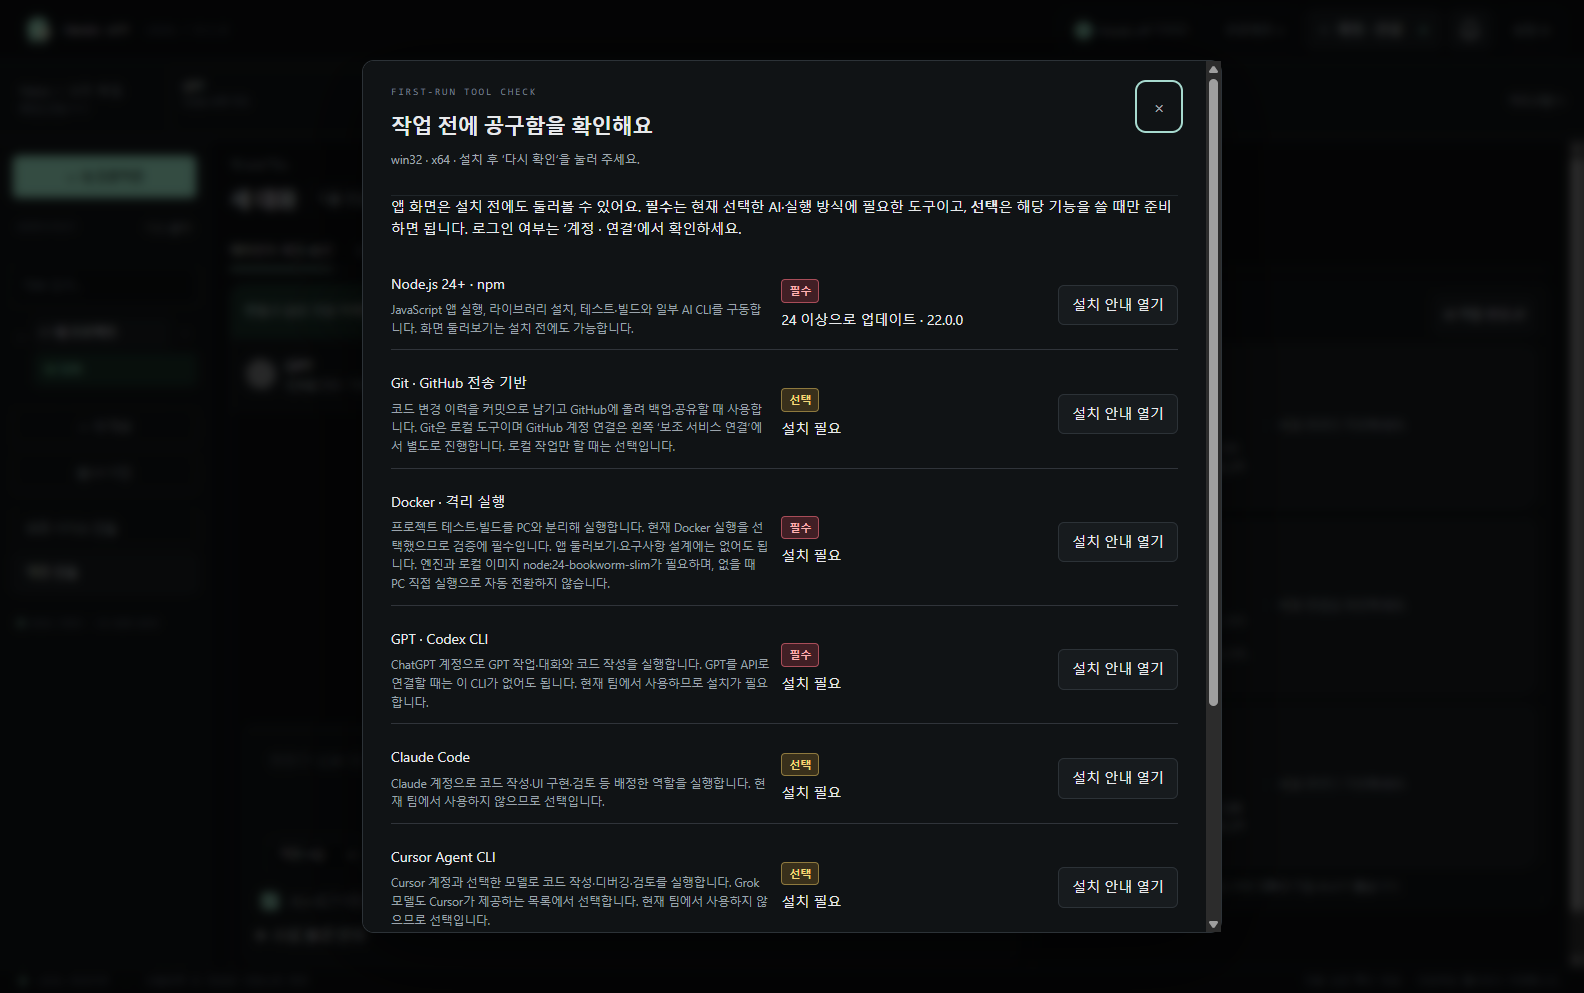
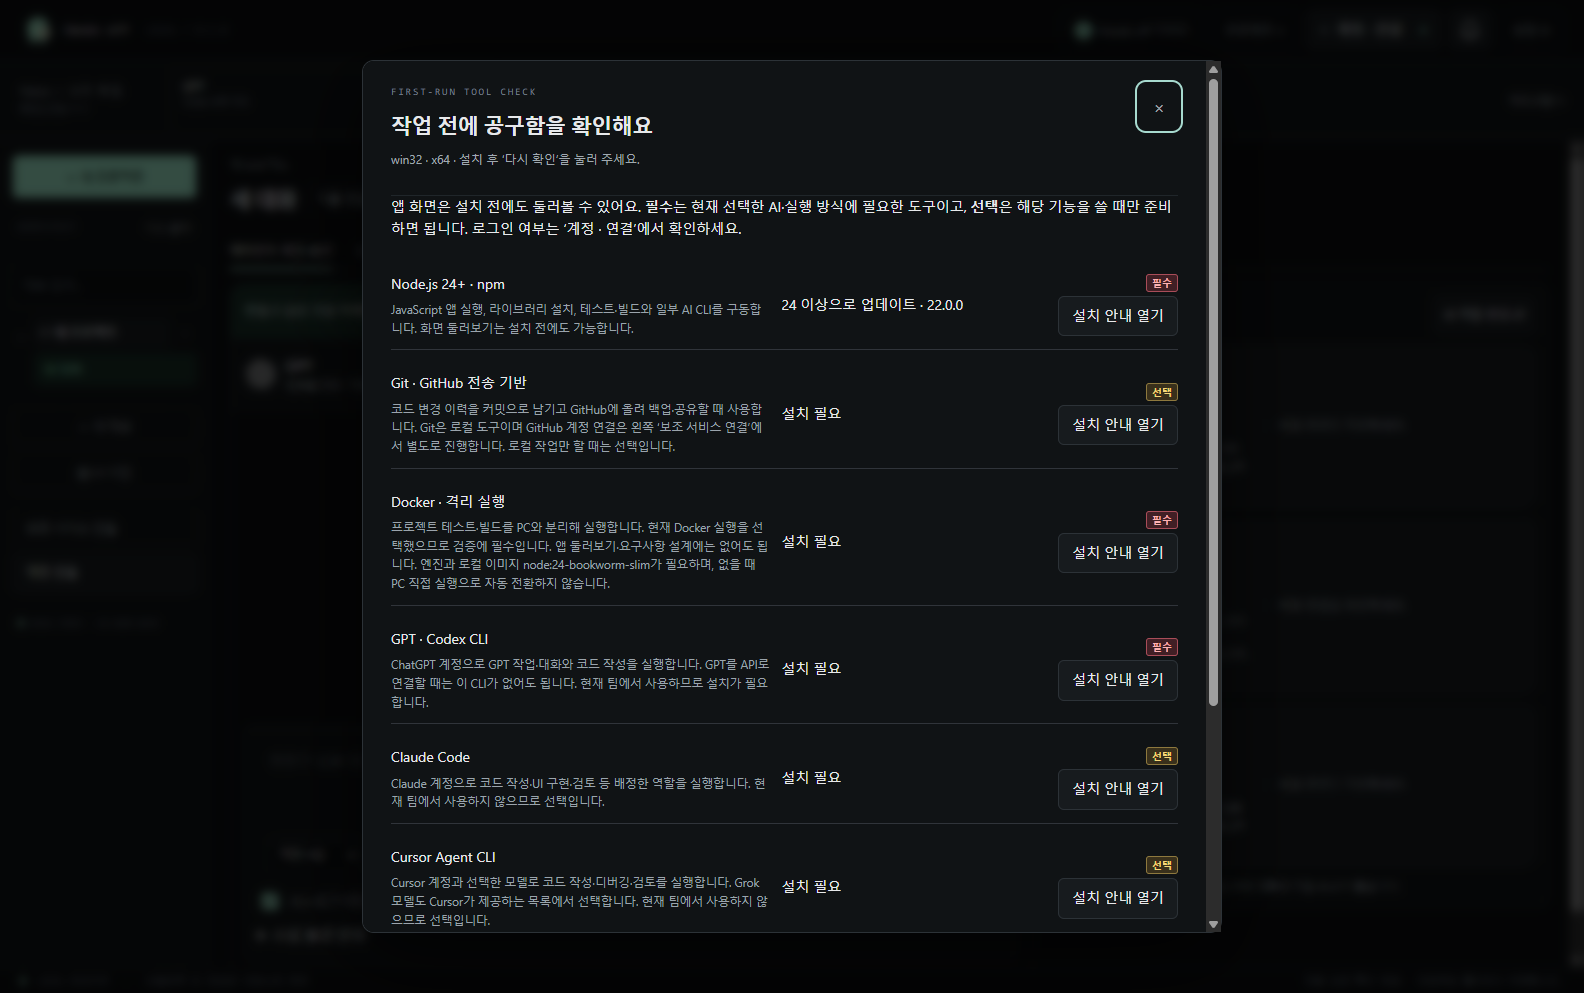
fix: place compact requirement badges above install buttons

diff --git a/src/renderer/app.js b/src/renderer/app.js
@@ -2481,10 +2481,11 @@ function showPrerequisites(report) {
     const purpose = document.createElement('small'); purpose.textContent = row.purpose; title.append(purpose);
     const state = document.createElement('div'); state.className = 'prerequisite-state'; state.dataset.ready = String(row.state === 'ready');
     const badge = document.createElement('span'); badge.className = 'prerequisite-badge'; badge.dataset.required = String(row.required); badge.textContent = row.required ? '필수' : '선택';
-    const stateText = document.createElement('span'); stateText.textContent = (labels[row.state] ?? '확인 필요') + (row.version ? ` · ${row.version}` : ''); state.append(badge, stateText);
+    const stateText = document.createElement('span'); stateText.textContent = (labels[row.state] ?? '확인 필요') + (row.version ? ` · ${row.version}` : ''); state.append(stateText);
     const button = document.createElement('button'); button.type = 'button'; button.textContent = row.state === 'ready' ? '공식 안내' : '설치 안내 열기';
     button.addEventListener('click', () => busy(button, '여는 중…', () => call(api.openInstallSite(row.id))));
-    item.append(title, state, button); list.append(item);
+    const actions = document.createElement('div'); actions.className = 'prerequisite-actions'; actions.append(badge, button);
+    item.append(title, state, actions); list.append(item);
   }
   $('#continue-prerequisites').textContent = report.needsAttention ? '나중에 준비하고 둘러보기' : '준비 완료 · 시작하기';
   if (!$('#prerequisites-dialog').open) $('#prerequisites-dialog').showModal();

diff --git a/src/renderer/styles.css b/src/renderer/styles.css
@@ -2783,8 +2783,8 @@ body[data-sidebar="off"] .workbench-shell {
 :root .prerequisite-row { display: grid; grid-template-columns: minmax(160px, 1fr) minmax(120px, .7fr) auto; gap: 12px; align-items: center; border-bottom: 1px solid #30343a; padding: 12px 0; }
 :root .prerequisite-row small { display: block; color: #9ba4ac; margin-top: 5px; }
 :root .prerequisite-state[data-ready=true] { color: #85e4bd; }
-:root .prerequisite-state { display: grid; gap: 6px; }
-:root .prerequisite-badge { justify-self: start; font-size: 11px; font-weight: 700; padding: 2px 7px; border-radius: 4px; }
+:root .prerequisite-actions { display: flex; flex-direction: column; align-items: flex-end; gap: 4px; }
+:root .prerequisite-badge { font-size: 10px; line-height: 1.4; font-weight: 700; padding: 1px 5px; border-radius: 3px; }
 :root .prerequisite-badge[data-required=true] { color: #ffb2b2; background: #411f25; border: 1px solid #a94d59; }
 :root .prerequisite-badge[data-required=false] { color: #f6d779; background: #39301b; border: 1px solid #8e793e; }
 #request-alerts { position: fixed; inset: 80px 20px auto auto; margin: 0; width: min(480px, calc(100vw - 40px)); max-height: calc(100vh - 110px); overflow-y: auto; padding: 0; border: 0; background: transparent; color: #eee; }

diff --git a/VALIDATION.md b/VALIDATION.md
@@ -1,4 +1,10 @@
-# 현재 요청 안내·설치 설명·작업표시줄 아이콘 · 2026-11-06
+# 현재 설치 안내 배지 배치 · 2026-11-06
+
+- 필수·선택 표시는 설치 상태 칸에서 빼고 각 공식 안내·설치 안내 버튼 바로 위에 배치했다. 글자 10px, 작은 여백과 우측 정렬을 적용했다. 도구 판정·설치 링크·설명은 유지하고 버전은 **0.1.0**이다.
+- 실제 Electron 설치 안내 **4개 시나리오**를 통과했다. 필수·선택 배지가 버튼 위 6px 이내에 있고 버튼보다 작으며 높이 18px 이하인지 실제 화면 좌표로 확인했다. 공식 링크 허용 목록·재검사·실행 동의도 함께 확인했다. README 설명과 설치 화면을 갱신했다.
+- 새 배포 파일과 Windows·Mac 네이티브 검증은 별도로 기록한다.
+
+# 이전 요청 안내·설치 설명·작업표시줄 아이콘 · 2026-11-06
 
 - 앱 버전은 **0.1.0**을 유지한다. 모델·로그인·폴더가 빠진 경우 작업 요청 버튼을 누르면 누락 항목과 설정 이동 버튼을 표시하고 AI 호출 전에 중단한다. 각 클릭의 안내는 개별 타이머로 5초 뒤 사라진다. 전송·응답 대기 및 /fun 설정 저장 중의 중복 요청 차단은 유지한다. 기존 작업 완료 알림은 10초와 종 기록을 유지한다.
 - 설치 상태 위에 필수(빨강)·선택(노랑)을 표시하고 Node.js·Git·Docker·각 AI CLI의 사용 목적을 설명한다. Git은 GitHub 전송 기반인 로컬 도구로 구분하고 로컬 작업에서는 선택으로 표시한다. Docker는 격리 실행을 선택했을 때 검증용 필수이며, 직접 실행으로 자동 전환하지 않는다. 사용하지 않는 AI CLI는 선택이다.
